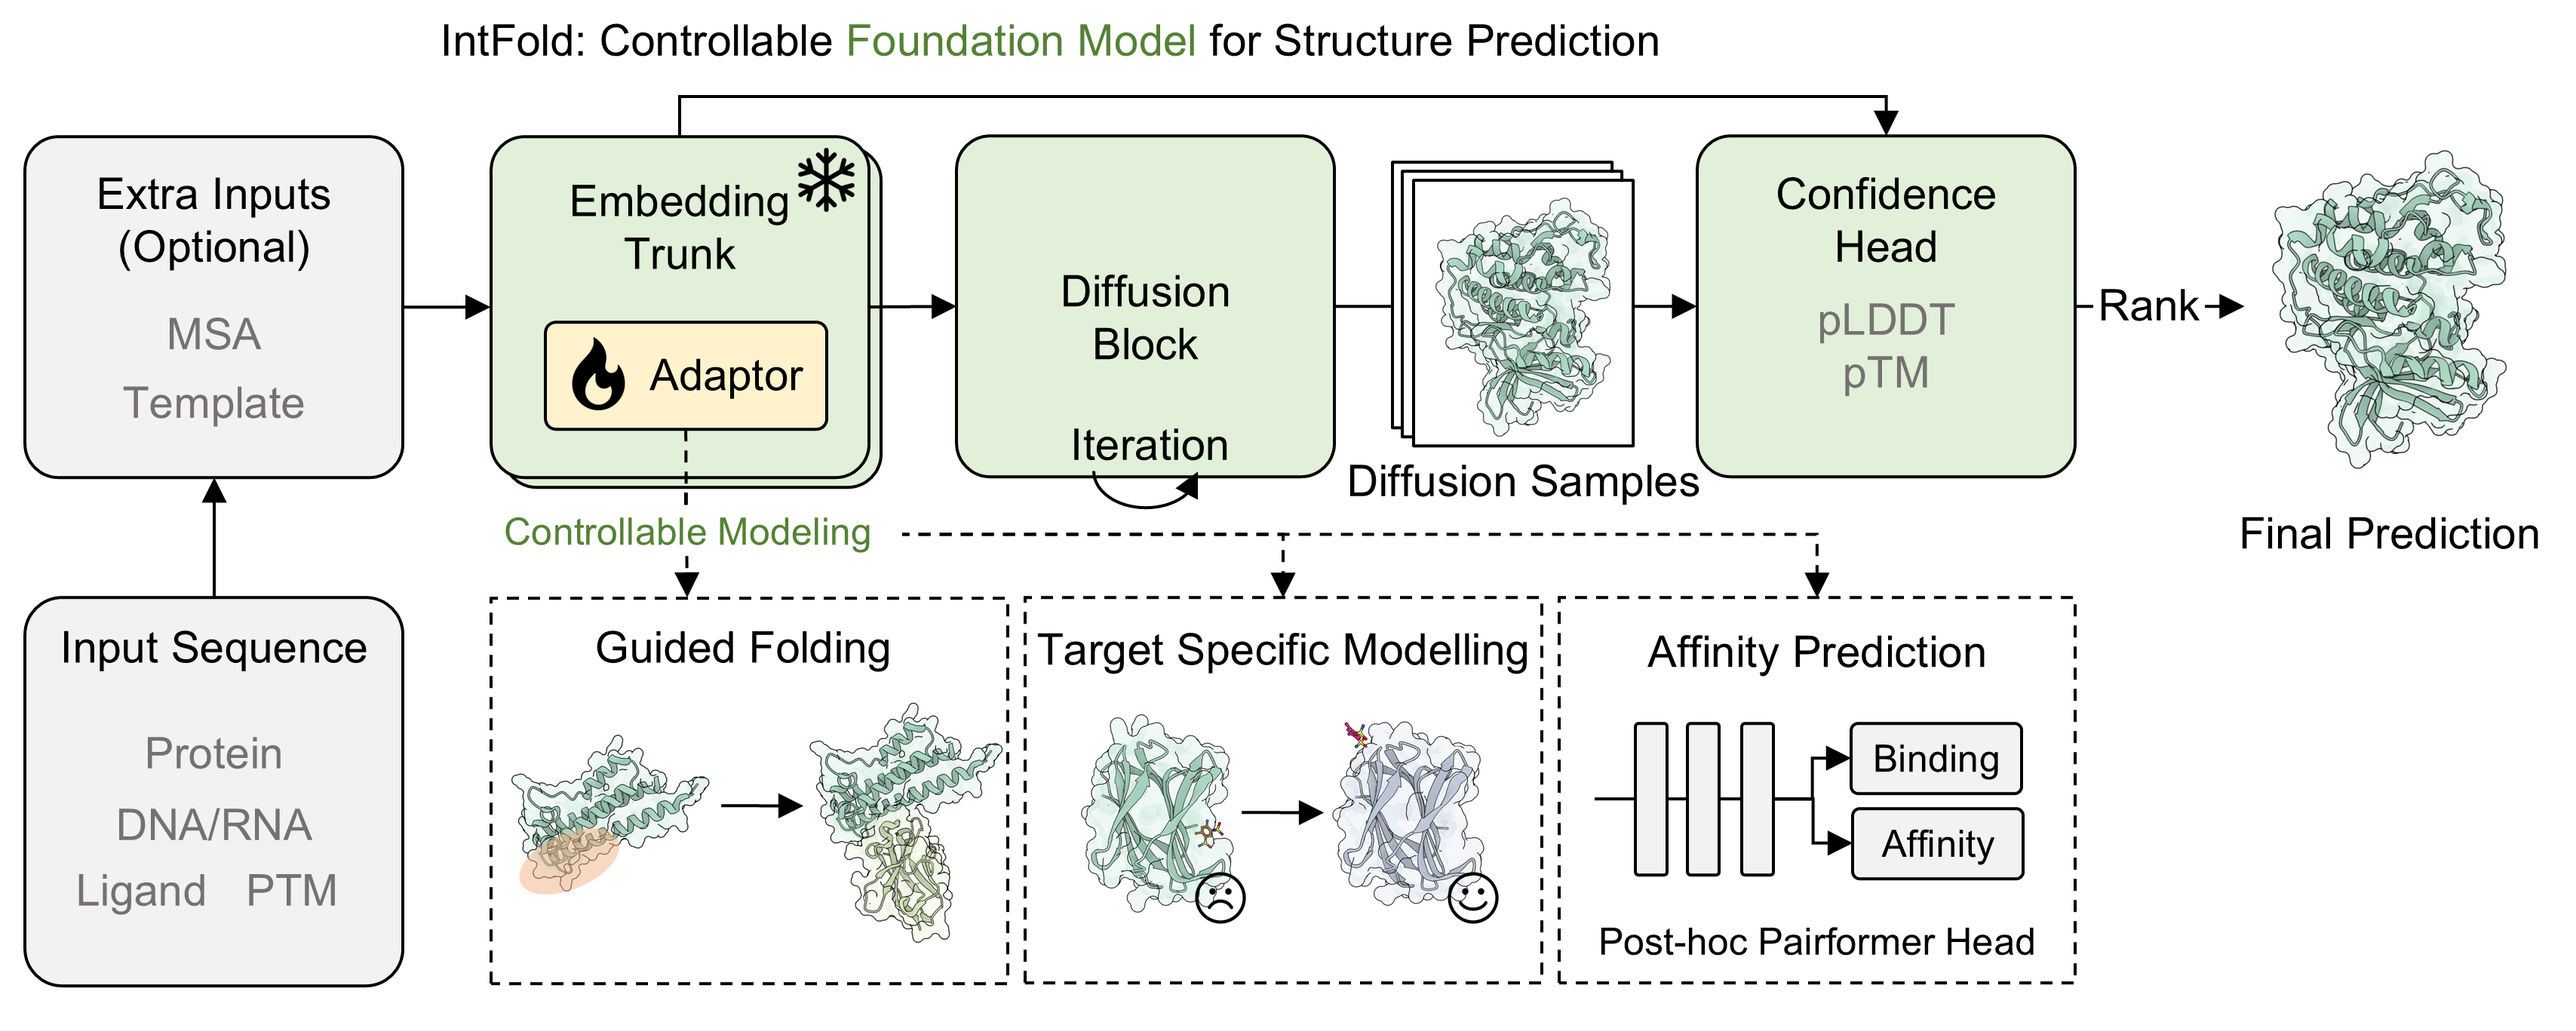
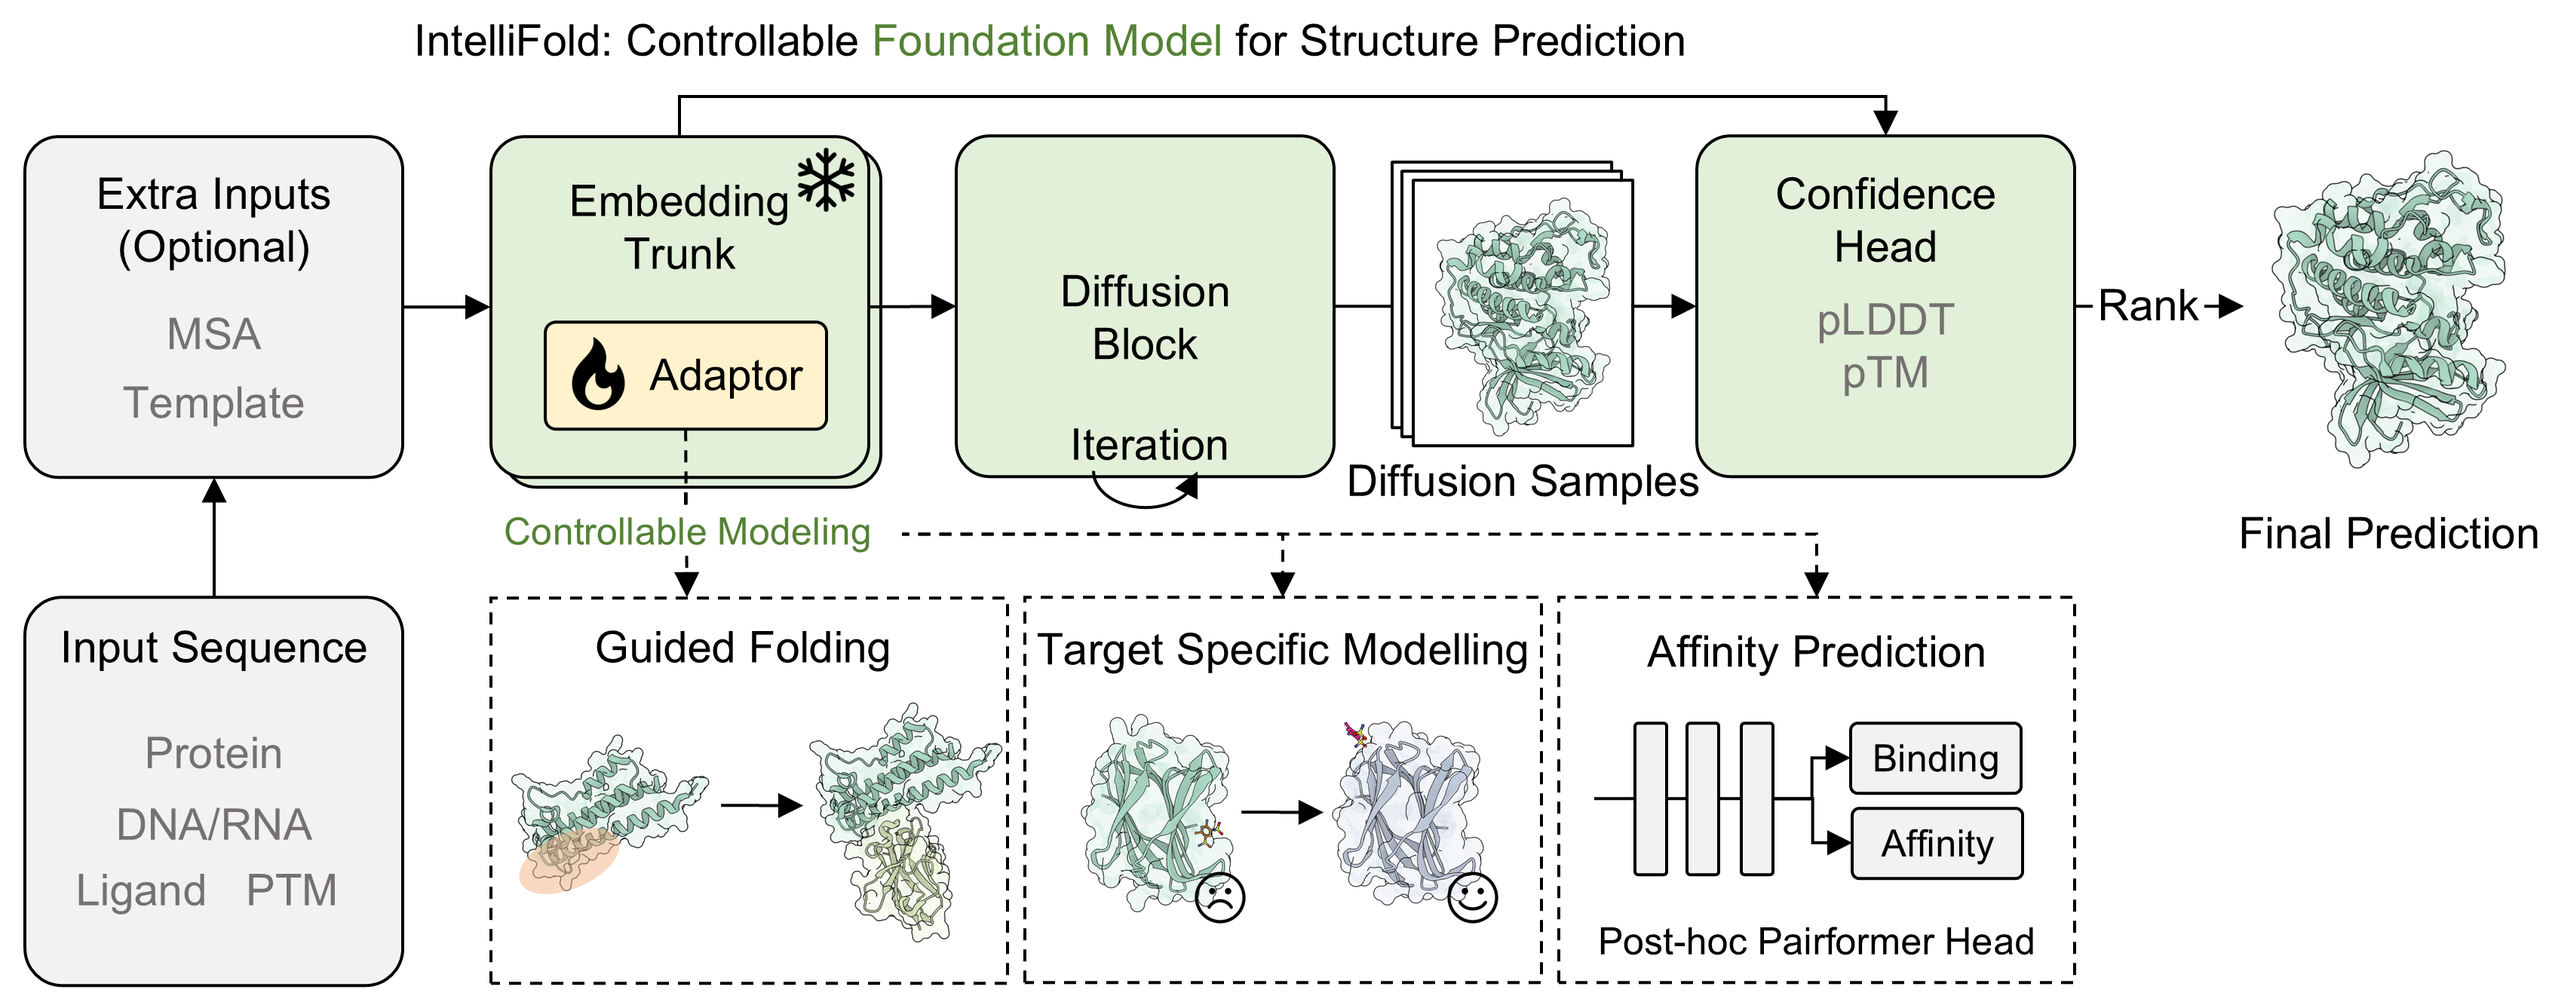
minor update

diff --git a/README.md b/README.md
@@ -1,24 +1,24 @@
 ![IntFold Cover](assets/intfold-cover.png)
 
 # IntFold: A Controllable Foundation Model for General and Specialized Biomolecular Structure Prediction
-[![HuggingFace Models](https://img.shields.io/badge/%F0%9F%A4%97%20HuggingFace-Models-yellow)](https://huggingface.co/GAGABIG/CNN)
+[![HuggingFace Models](https://img.shields.io/badge/%F0%9F%A4%97%20HuggingFace-Models-yellow)](https://huggingface.co/intelligenAI/intfold)
 [![PyPI](https://img.shields.io/pypi/v/intfold)](https://pypi.org/project/intfold/)
 [![License](https://img.shields.io/badge/license-Apache%202.0-blue)](LICENSE)
 [![Email](https://img.shields.io/badge/Email-Contact-lightgrey?logo=gmail)](#contact-us)
 
 
 <div align="center" style="margin: 20px 0;">
-  <span style="margin: 0 10px;">⚡ <a href="https://server.intfold.com">IntFold Server</a></span>
+  <span style="margin: 0 10px;">⚡ <a href="https://server.intfold.com">IntelliFold Server</a></span>
   &bull; <span style="margin: 0 10px;">📄 <a href="https://arxiv.org/abs/2507.02025">Technical Report</a></span>
 </div>
 
 
-![IntFold Model](assets/Intfold-Model-Arc.png)
+![IntelliFold Model](assets/Intfold-Model-Arc.png)
 
 
 ## 🚀 Quick Start
 
-To quickly get started with IntFold, you can use the following commands:
+To quickly get started with IntelliFold, you can use the following commands:
 ```bash
 # Install IntFold from PyPI
 pip install intfold
@@ -48,23 +48,23 @@ For comprehensive usage instructions and examples, refer to the [Usage Guide](do
 
 
 ## 📊 Benchmarking
-To comprehensively evaluate the performance of IntFold, we conducted a rigorous evaluation on [FoldBench](https://github.com/BEAM-Labs/FoldBench). We compared IntFold against several leading methods, including [Boltz-1,2](https://github.com/jwohlwend/boltz), [Chai-1](https://github.com/chaidiscovery/chai-lab), [Protenix](https://github.com/bytedance/Protenix) and [Alphafold3](https://github.com/google-deepmind/alphafold3).
+To comprehensively evaluate the performance of IntelliFold, we conducted a rigorous evaluation on [FoldBench](https://github.com/BEAM-Labs/FoldBench). We compared IntelliFold against several leading methods, including [Boltz-1,2](https://github.com/jwohlwend/boltz), [Chai-1](https://github.com/chaidiscovery/chai-lab), [Protenix](https://github.com/bytedance/Protenix) and [Alphafold3](https://github.com/google-deepmind/alphafold3).
 
 For more details on the benchmarking process and results, please refer to our [Technical Report](https://arxiv.org/abs/2507.02025).
 
 ![Benchmark Metrics](assets/intfold_metrics.png)
 
 
-## 🌐 IntFold Server
+## 🌐 IntelliFold Server
 
-**We highly recommend using the [IntFold Server](https://server.intfold.com) for the most accurate, complete, and convenient biomolecular structure predictions.** It requires no installation and provides an intuitive web interface to submit your sequences and visualize results directly in your browser. The server runs the **full, optimized, latest** IntFold implementation for optimal performance.
+**We highly recommend using the [IntelliFold Server](https://server.intfold.com) for the most accurate, complete, and convenient biomolecular structure predictions.** It requires no installation and provides an intuitive web interface to submit your sequences and visualize results directly in your browser. The server runs the **full, optimized, latest** IntelliFold implementation for optimal performance.
 
-![IntFold Server](assets/intfold-server-screenshot.png)
+![IntelliFold Server](assets/intfold-server-screenshot.png)
 
 
 ## 📜 Citation
 
-If you use IntFold in your research, please cite our paper:
+If you use IntelliFold in your research, please cite our paper:
 
 ```
 @misc{theintfoldteam2025intfoldcontrollablefoundationmodel,
